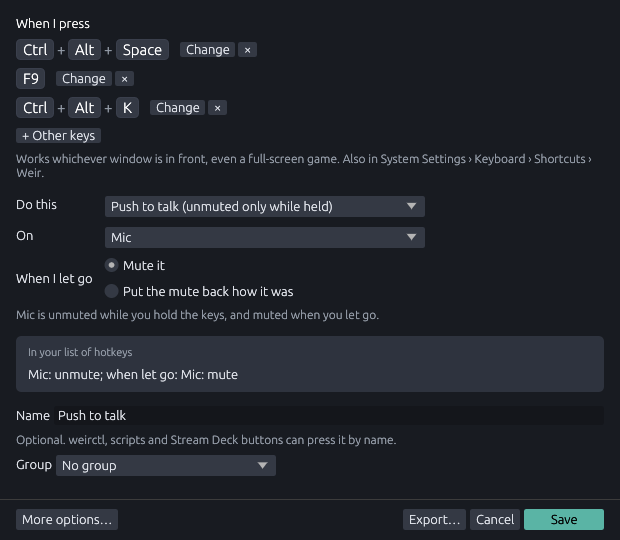
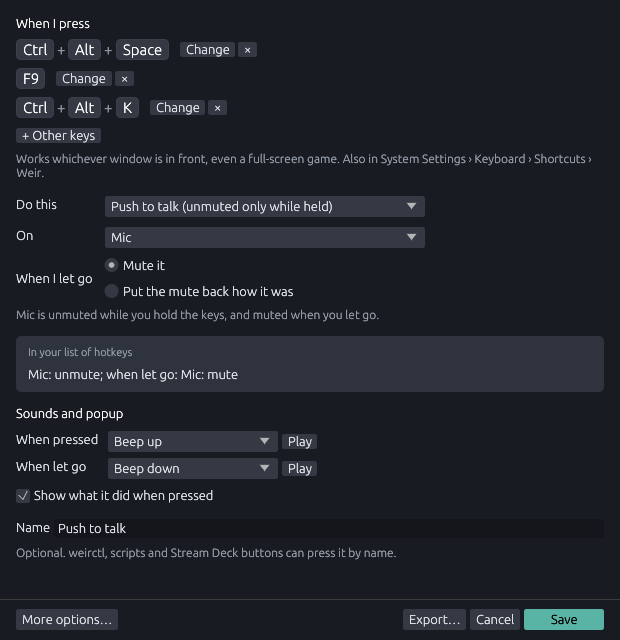
Show the sounds in the editor screenshot, and Preferences' hotkeys
The hotkey editor's screenshot is retaken with its new Sounds and popup
rows, under the same stand-in KDE Plasma as before, and a crop of the
Hotkeys part of Preferences joins the user guide.

Claude-Session: https://claude.ai/code/session_01PWaMWDrXpfpALWtEnsyueZ

diff --git a/docs/USER_GUIDE.md b/docs/USER_GUIDE.md
@@ -691,6 +691,8 @@ Where and how loud the sounds play, and how the popup shows, are set once
 for all hotkeys in [Preferences](#preferences). Sounds go straight to that
 device, past every bus, so your stream and recordings never hear them.
 
+![Hotkeys in Preferences](images/hotkey-preferences.png)
+
 ### More options
 
 **More options…** shows every step, since a hotkey can do several things
